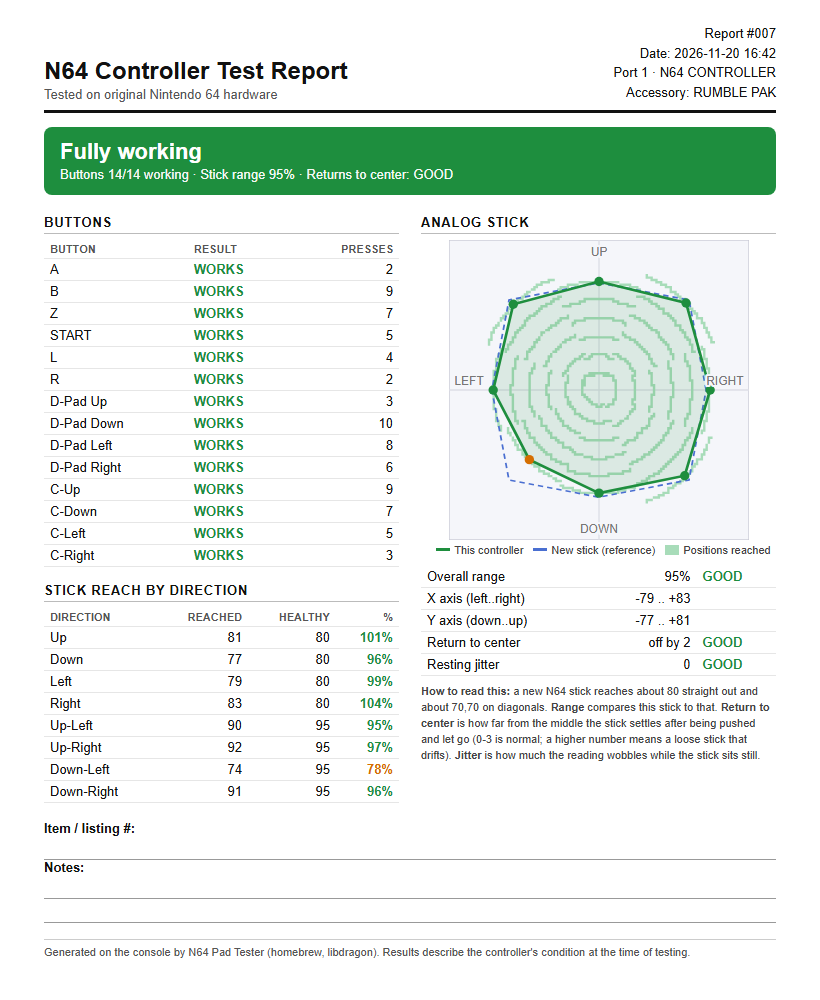
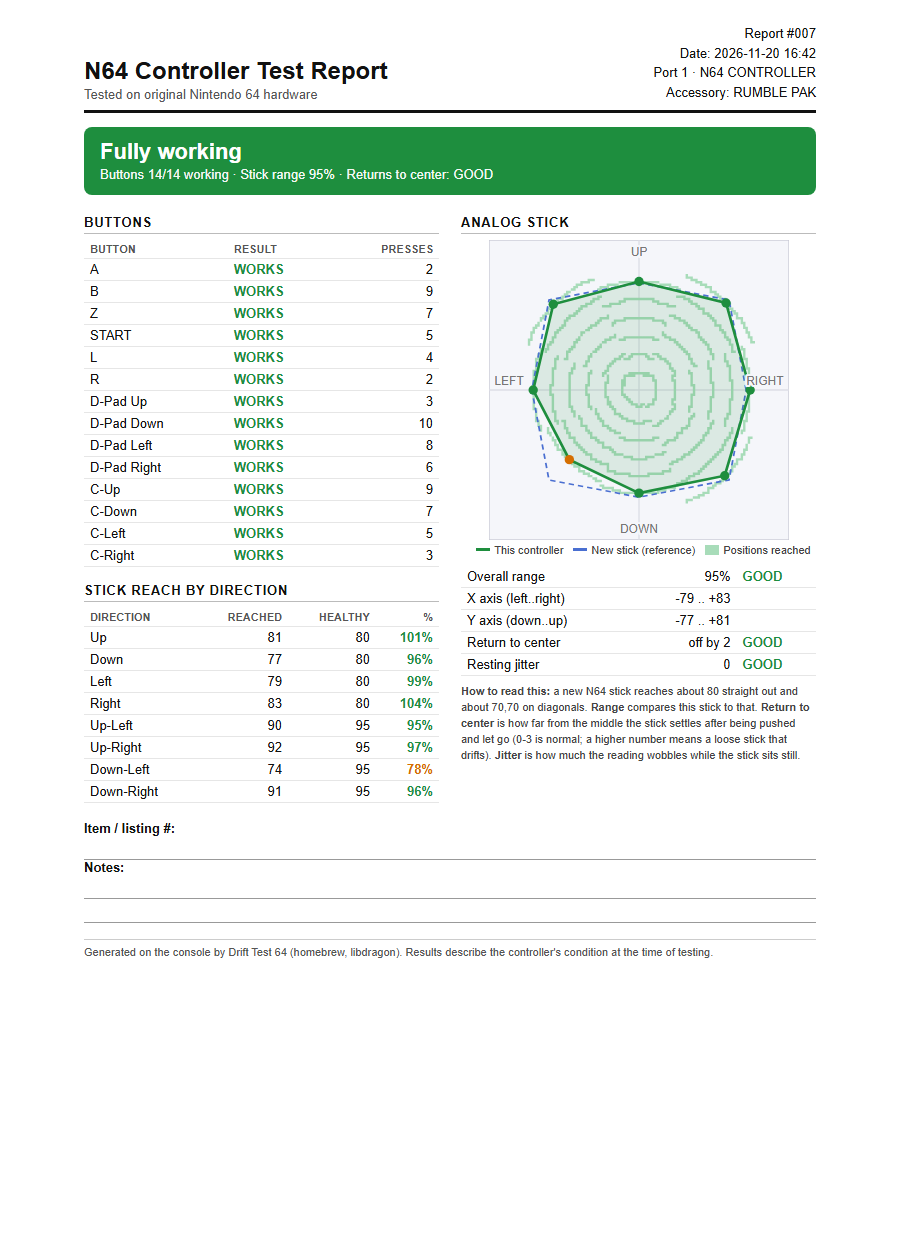
Rename to Drift Test 64
Reports now save to sd:/drifttest64; the screen size setting saved by
v1.0.0 is still read from the old folder.

Changed region(s): [[0.0305, 0.0, 0.9451, 0.899], [0.061, 0.93, 0.8537, 0.961]]

diff --git a/src/main.c b/src/main.c
@@ -1,5 +1,5 @@
 /*
- * N64 Controller Tester (libdragon)
+ * Drift Test 64: N64 controller tester (libdragon)
  *
  *  - Every button shows one of three states:
  *      grey   = not pressed yet (untested)
@@ -41,7 +41,8 @@
 #define SCY  (SY + SW / 2)
 
 #define MENU_HOLD_FRAMES 40
-#define SD_DIR  "sd:/n64padtester"
+#define SD_DIR  "sd:/drifttest64"
+#define OLD_SD_DIR "sd:/n64padtester"    /* v1.0.0 folder, for saved settings */
 
 /* ---------- buttons ---------- */
 typedef enum { HUE_GREY, HUE_BLUE, HUE_GREEN, HUE_RED, HUE_YELLOW } hue_t;
@@ -351,7 +352,7 @@ static int save_report(int port, const port_state_t *p)
     report_write_html(f, &r);
     bool err = ferror(f);
     fclose(f);
-    debugf("[pad-tester] saved %s (%s)\n", path, err ? "error" : "ok");
+    debugf("[drifttest64] saved %s (%s)\n", path, err ? "error" : "ok");
     return err ? -1 : n;
 }
 
@@ -377,6 +378,7 @@ static void load_settings(void)
 {
     if (!sd_ok) return;
     FILE *f = fopen(SD_DIR "/settings.txt", "r");
+    if (!f) f = fopen(OLD_SD_DIR "/settings.txt", "r");   /* from v1.0.0 */
     if (!f) return;
     int pct = 0;
     if (fscanf(f, "screen_size=%d", &pct) == 1)
@@ -622,7 +624,7 @@ static int boot_step = 0;
 static void stage(const char *what)
 {
     boot_step++;
-    debugf("[pad-tester] step %d: %s\n", boot_step, what);
+    debugf("[drifttest64] step %d: %s\n", boot_step, what);
 #ifdef DEBUG_BOOT
     static char lines[12][40];
     if (boot_step <= 12) snprintf(lines[boot_step - 1], 40, "%d. %s", boot_step, what);
@@ -630,7 +632,7 @@ static void stage(const char *what)
     if (d) {
         graphics_fill_screen(d, graphics_make_color(0, 0, 80, 255));
         graphics_set_color(graphics_make_color(255, 255, 255, 255), 0);
-        graphics_draw_text(d, 24, 24, "PAD TESTER - DEBUG BOOT");
+        graphics_draw_text(d, 24, 24, "DRIFT TEST 64 - DEBUG BOOT");
         for (int i = 0; i < boot_step && i < 12; i++)
             graphics_draw_text(d, 24, 44 + i * 12, lines[i]);
         display_show(d);
@@ -682,7 +684,7 @@ int main(void)
     vi_boot_guard();
     debug_init_isviewer();
     debug_init_usblog();
-    debugf("[pad-tester] main() reached\n");
+    debugf("[drifttest64] main() reached\n");
 
     sd_ok = debug_init_sdfs("sd:/", -1);
     load_settings();
@@ -826,7 +828,7 @@ int main(void)
 #ifdef DEBUG_BOOT
         text(d, 248, 214, C_WARN, "F%06lu", (unsigned long)frame);
 #endif
-        if (frame == 1 || frame % 600 == 0) debugf("[pad-tester] frame %lu\n", (unsigned long)frame);
+        if (frame == 1 || frame % 600 == 0) debugf("[drifttest64] frame %lu\n", (unsigned long)frame);
 
         present(&back);
     }

diff --git a/src/report.c b/src/report.c
@@ -248,7 +248,7 @@ void report_write_html(FILE *f, const report_t *r)
 
     fputs("<div class=\"notes\"><b>Item / listing #:</b><div class=\"line\"></div>"
           "<b>Notes:</b><div class=\"line\"></div><div class=\"line\"></div></div>\n", f);
-    fputs("<footer>Generated on the console by N64 Pad Tester (homebrew, libdragon). "
+    fputs("<footer>Generated on the console by Drift Test 64 (homebrew, libdragon). "
           "Results describe the controller's condition at the time of testing.</footer>\n"
           "</div></body></html>\n", f);
 }

diff --git a/README.md b/README.md
@@ -1,9 +1,9 @@
-# N64 Pad Tester
+# Drift Test 64
 
-A Nintendo 64 controller tester that runs on real hardware from a flashcart.
-Check every button, measure how worn the analog stick is, and save a
-printable one-page report to the SD card — handy for repairs and for
-listing controllers for sale.
+**N64 controller tester and stick drift test** that runs on real hardware
+from a flashcart. Check every button, measure how worn the analog stick is
+(drift, loose stick, weak range), and save a printable one-page report to the
+SD card — handy for repairs and for listing controllers for sale.
 
 ![The tester running](docs/screenshot.png)
 
@@ -41,7 +41,7 @@ number and notes.
 
 ## How to use
 
-1. Download `n64-pad-tester.z64` from the
+1. Download `drift-test-64.z64` from the
    [Releases](../../releases) page.
 2. Copy it to your flashcart's SD card and start it from the menu.
 3. Test the controller:
@@ -53,7 +53,7 @@ number and notes.
 
    | Menu item | What it does |
    |---|---|
-   | SAVE REPORT TO SD | writes `n64padtester/report_001.html` (the number goes up each time) |
+   | SAVE REPORT TO SD | writes `drifttest64/report_001.html` (the number goes up each time) |
    | VIEW REPORT | shows the verdict on the TV — good for photos |
    | SCREEN SIZE | left/right on the D-pad to shrink the picture for CRTs |
    | RESET THIS PORT | clears the results to test the next controller |
@@ -90,8 +90,8 @@ You need the libdragon toolchain and a recent libdragon (`trunk` branch,
 commit `e356bf3` or newer) installed, with `N64_INST` set. On Windows, use WSL.
 
 ```sh
-make            # n64-pad-tester.z64
-make DEBUG=1    # n64-pad-tester-debug.z64: on-screen boot steps + frame counter
+make            # drift-test-64.z64
+make DEBUG=1    # drift-test-64-debug.z64: on-screen boot steps + frame counter
 ```
 
 `build.sh` is a small wrapper that sets `N64_INST` to `~/n64dev/tc/opt/libdragon`

diff --git a/RELEASING.md b/RELEASING.md
@@ -1,10 +1,10 @@
 # Releasing a new version
 
-1. Test the ROM on real hardware (`./build.sh`, copy `n64-pad-tester.z64`
+1. Test the ROM on real hardware (`./build.sh`, copy `drift-test-64.z64`
    to the SD card):
    - every button turns green, stick chart fills in
    - hold START → menu opens
-   - SAVE REPORT TO SD → `n64padtester/report_NNN.html` appears and prints
+   - SAVE REPORT TO SD → `drifttest64/report_NNN.html` appears and prints
    - SCREEN SIZE change is remembered after a power cycle
 2. Commit and push to `main`. The **Build** action must pass.
 3. Tag and push the version:
@@ -15,5 +15,5 @@
    ```
 
 4. GitHub Actions builds the ROMs and publishes a Release with
-   `n64-pad-tester.z64` and `n64-pad-tester-debug.z64` attached.
+   `drift-test-64.z64` and `drift-test-64-debug.z64` attached.
    Edit the release notes to say what changed and which flashcarts were tested.
